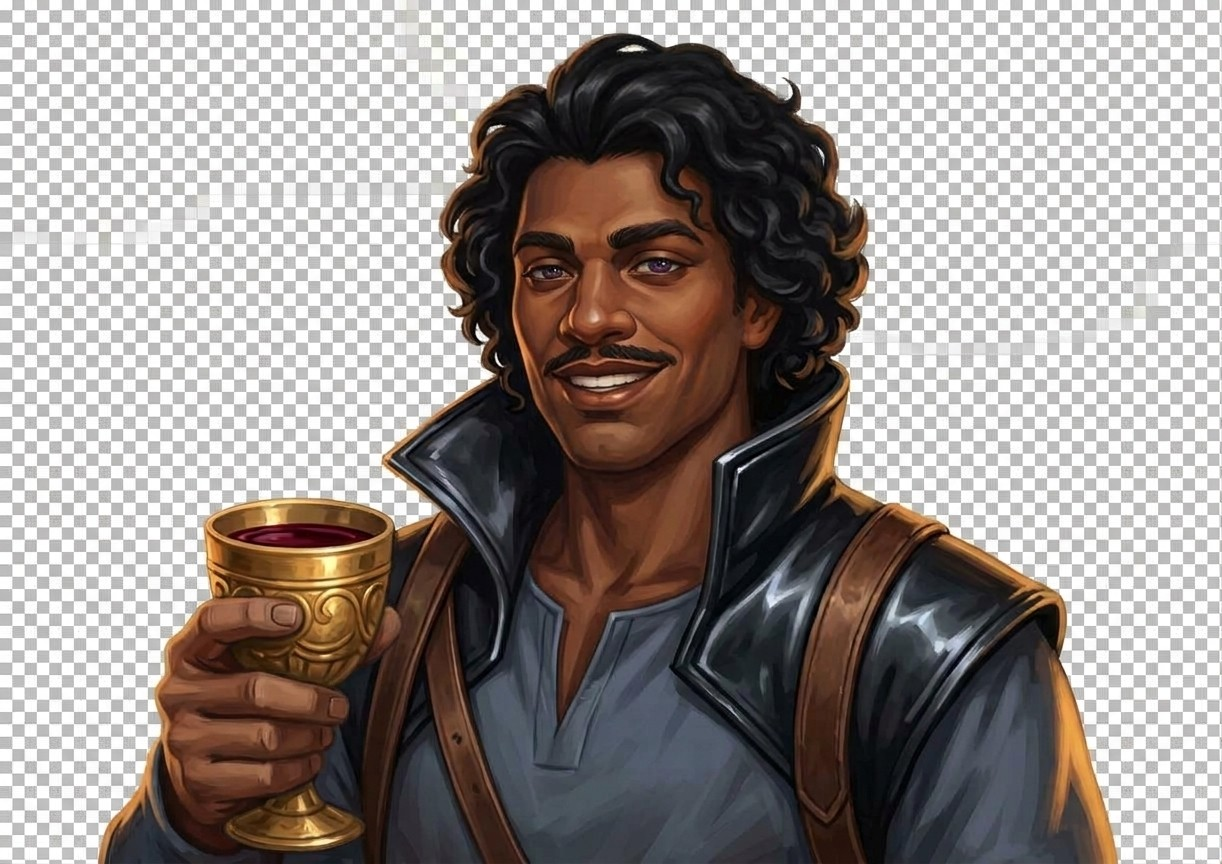
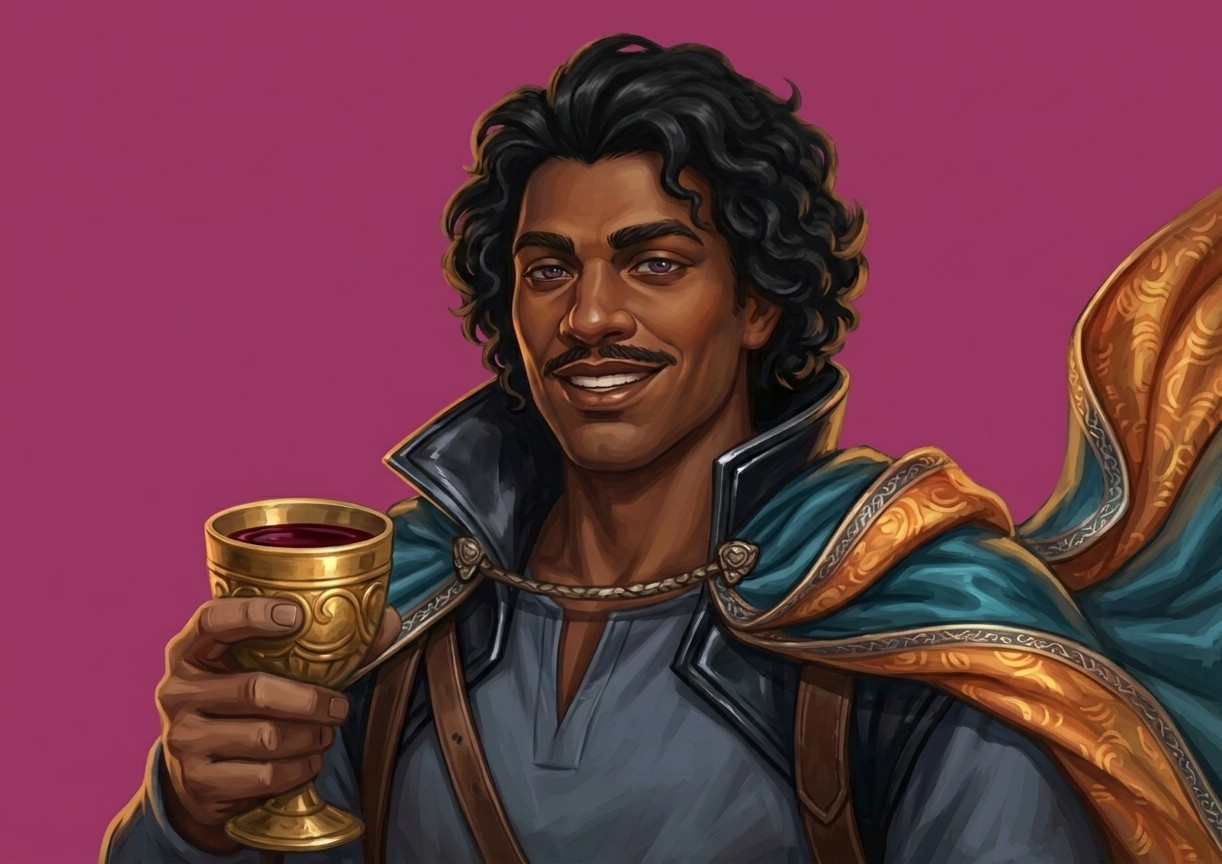
Jaguar's new bust and two ability paintings; ability screens 1.85 s
Jaguar's new bust (the old original kept as art/bust-jaguar-v1.jpg, his cloak faded where
it runs off the painting, his round frames reframed) and paintings for Smooth Talk and The
Cloak. The art script's trails take a list, and a new fade option softens edges a painting
crops itself.

Every moment is up 1.85 s instead of 2.6 s (server and browser), with the animations and
room lights to match. "Wild Magic Hot Tub" without "The"; the "Everyone else dusted" line
under the controls is gone.

diff --git a/client/src/styles.css b/client/src/styles.css
@@ -737,14 +737,14 @@ footer {
     border: 2px solid var(--gold);
     border-radius: 10px;
     box-shadow: 0 8px 24px rgba(0, 0, 0, 0.6), 0 0 22px rgba(255, 138, 101, 0.35);
-    animation: banner-in 2.6s ease-out forwards;
+    animation: banner-in 1.85s ease-out forwards;
 }
 .ability-banner .who { font-size: 0.9rem; color: var(--parchment-dim); }
 .ability-banner .what { font-size: clamp(1.3rem, 6vw, 1.8rem); font-weight: 700; color: #ffab91; }
 .ability-banner .minus { font-size: clamp(1.4rem, 6.5vw, 2rem); font-weight: 700; color: #e57373; animation: minus-drop 2.6s ease-out forwards; }
 .constellation-blur .ability-banner { background: linear-gradient(#141a3a, #070a1f); box-shadow: 0 8px 24px rgba(0, 0, 0, 0.6), 0 0 26px rgba(130, 170, 255, 0.45); }
 .constellation-blur .ability-banner .what { color: #b3c7ff; }
-.the-ace-of-spades .ability-banner { animation-duration: 2.4s; }
+.the-ace-of-spades .ability-banner { animation-duration: 1.75s; }
 @keyframes banner-in {
     0% { opacity: 0; transform: translate(-50%, -50%) scale(0.7); }
     10% { opacity: 1; transform: translate(-50%, -50%) scale(1.06); }
@@ -779,7 +779,7 @@ footer {
     display: flex;
     align-items: center;
     gap: 10px;
-    animation: bullet-in 2.4s ease-out forwards;
+    animation: bullet-in 1.75s ease-out forwards;
 }
 /* A small, sharp hole punched in the felt, splintered round the edge, smoke rising off it. */
 .bullet-24 .hole {
@@ -1536,7 +1536,7 @@ button.keepsake.used { opacity: 0.55; }
 .ability-marks .left { color: #ffab91; text-shadow: 0 0 6px rgba(255, 138, 101, 0.9); }
 .ability-marks .used { color: #5d4037; text-shadow: none; }
 /* Just spent: once the move's banner has gone (the plate hides under it), the marks flare. */
-.ability-marks.spent-now { border-radius: 6px; animation: marks-spent 2s ease-out 2.4s 1 both; }
+.ability-marks.spent-now { border-radius: 6px; animation: marks-spent 2s ease-out 1.75s 1 both; }
 @keyframes marks-spent {
     0% { transform: scale(1); box-shadow: none; }
     15%, 45% { transform: scale(1.5); box-shadow: 0 0 18px 6px rgba(255, 112, 67, 0.9); background: rgba(255, 112, 67, 0.35); }
@@ -1795,7 +1795,7 @@ button.keepsake.used { opacity: 0.55; }
     white-space: normal;
     text-align: center;
     box-shadow: 0 10px 40px rgba(0, 0, 0, 0.75), 0 0 46px var(--flare);
-    animation: takeover-in 2.4s cubic-bezier(0.2, 0.8, 0.25, 1) forwards;
+    animation: takeover-in 1.75s cubic-bezier(0.2, 0.8, 0.25, 1) forwards;
 }
 .takeover .ability-banner .who { font-size: 0.85rem; letter-spacing: 0.12em; text-transform: uppercase; color: var(--parchment); }
 .takeover .ability-banner .what { font-size: clamp(2rem, 10vw, 3.2rem); line-height: 1.05; text-shadow: 0 0 22px var(--flare), 0 2px 6px #000; }
@@ -1866,7 +1866,7 @@ button.keepsake.used { opacity: 0.55; }
     background: repeating-conic-gradient(from 0deg, var(--flare) 0deg 5deg, rgba(0, 0, 0, 0) 5deg 20deg);
     -webkit-mask-image: radial-gradient(circle, #000 0%, rgba(0, 0, 0, 0.5) 18%, rgba(0, 0, 0, 0) 40%);
     mask-image: radial-gradient(circle, #000 0%, rgba(0, 0, 0, 0.5) 18%, rgba(0, 0, 0, 0) 40%);
-    mix-blend-mode: screen; animation: rays-turn 2.6s linear both;
+    mix-blend-mode: screen; animation: rays-turn 1.85s linear both;
 }
 @keyframes rays-turn { 0% { opacity: 0; transform: rotate(0deg) scale(0.6); } 15% { opacity: 0.75; transform: rotate(4deg) scale(1); } 85% { opacity: 0.6; } 100% { opacity: 0; transform: rotate(24deg) scale(1.05); } }
 @media (max-height: 500px) { .ability-stage .rays { left: 24vw; top: 50%; } }
@@ -2019,7 +2019,7 @@ button.keepsake.used { opacity: 0.55; }
     display: flex; align-items: center; justify-content: center; font-size: 3rem;
     border-radius: 50%;
     background: radial-gradient(circle, rgba(255, 248, 225, 0.9), rgba(255, 213, 79, 0.35) 55%, transparent 72%);
-    animation: keepsake-burst 2.4s ease-out forwards;
+    animation: keepsake-burst 1.75s ease-out forwards;
 }
 @keyframes keepsake-burst {
     0% { opacity: 0; transform: scale(0.2) rotate(-20deg); }
@@ -2040,7 +2040,7 @@ button.keepsake.used { opacity: 0.55; }
         repeating-linear-gradient(60deg, rgba(179, 229, 252, 0.16) 0 2px, transparent 2px 22px),
         repeating-linear-gradient(-60deg, rgba(179, 229, 252, 0.16) 0 2px, transparent 2px 22px);
     box-shadow: 0 0 40px rgba(79, 195, 247, 0.7), inset 0 0 50px rgba(129, 212, 250, 0.55);
-    animation: forcefield 2.4s ease-out forwards;
+    animation: forcefield 1.75s ease-out forwards;
 }
 @keyframes forcefield {
     0% { opacity: 0; transform: translate(-50%, -18%) scale(0.3); }
@@ -2437,7 +2437,7 @@ button.keepsake.used { opacity: 0.55; }
     height: min(48vh, 440px); max-width: 86vw; object-fit: contain;
     transform: translate(-50%, -78%);
     filter: drop-shadow(0 10px 24px rgba(0, 0, 0, 0.7)) drop-shadow(0 0 22px var(--flare, rgba(255, 138, 101, 0.5)));
-    animation: ability-art 2.6s ease-out both;
+    animation: ability-art 1.85s ease-out both;
 }
 @keyframes ability-art {
     0% { opacity: 0; transform: translate(-50%, -58%) scale(0.9); }
@@ -2472,13 +2472,13 @@ button.keepsake.used { opacity: 0.55; }
     background:
         radial-gradient(ellipse 75% 55% at 50% 40%, var(--flare) 0%, transparent 62%),
         radial-gradient(ellipse 90% 80% at 50% 40%, #1d0f07 0%, #070302 100%);
-    animation: stage-in 2.6s ease-out both;
+    animation: stage-in 1.85s ease-out both;
 }
 @keyframes stage-in { 0% { opacity: 0; } 7% { opacity: 1; } 88% { opacity: 1; } 100% { opacity: 0; } }
 .ability-stage .mote {
     position: absolute; bottom: -12px; width: 7px; height: 7px; border-radius: 50%;
     background: radial-gradient(circle, #fff 0%, var(--flare) 55%, transparent 72%);
-    animation: mote-rise 2.6s ease-in infinite;
+    animation: mote-rise 1.6s ease-in infinite;
 }
 @keyframes mote-rise {
     0% { opacity: 0; transform: translate(0, 0) scale(0.6); }

diff --git a/client/src/Hud.tsx b/client/src/Hud.tsx
@@ -205,7 +205,7 @@ function scoreToBeat(state: GameState, rollerId: string): { label: string; targe
     const finished = state.roundPlayers.filter(id => id !== rollerId && state.players[id] && state.players[id].score !== null);
     if (finished.length === 0) return null; // first to roll: nothing to beat yet
     const scores = finishedScores(state, rollerId);
-    if (scores.length === 0) return { label: 'Everyone else dusted: just find a 2 and a 4', target: null };
+    if (scores.length === 0) return null; // everyone else dusted: nothing to beat (the user took the line out, 27 Oct)
     if (cursed(state)) return { label: 'Score to stay under', target: Math.max(...scores) };
     return { label: 'Score to beat', target: Math.min(...scores) };
 }
@@ -789,7 +789,10 @@ const ABILITY_ART: Record<string, string> = {
     'Flourish': 'ability-flourish.webp',
     'Astral Flood': 'ability-astral-flood.webp',
     'Reach Around': 'ability-reach-around.webp',
-    'Written in the Stars': 'ability-written-in-the-stars.webp'
+    'Written in the Stars': 'ability-written-in-the-stars.webp',
+    // 27 Oct: Jaguar's.
+    'Smooth Talk': 'ability-smooth-talk.webp',
+    'The Cloak': 'ability-the-cloak.webp'
 };
 Object.values(ABILITY_ART).forEach(file => { new Image().src = `${import.meta.env.BASE_URL}art/${file}`; });
 
@@ -819,7 +822,7 @@ function AbilityMomentView({ snap }: { snap: Snapshot }) {
                 <div className="ability-stage" aria-hidden="true">
                     {/* Light rays turning slowly behind the painting. */}
                     <span className="rays" />
-                    {Array.from({ length: 14 }, (_, i) => <span key={i} className="mote" style={{ left: `${(i * 7.3 + (i % 4) * 3) % 100}%`, animationDelay: `${(i * 0.17) % 1.2}s` }} />)}
+                    {Array.from({ length: 14 }, (_, i) => <span key={i} className="mote" style={{ left: `${(i * 7.3 + (i % 4) * 3) % 100}%`, animationDelay: `${(i * 0.11) % 0.8}s` }} />)}
                 </div>
             )}
             {surge && (
@@ -956,7 +959,7 @@ const SPOTS: Record<Spot, { name: string; line: string; offer: string }> = {
     thom: { name: "Thom's Thonics", line: '"What ya havin\'?"', offer: 'Buy Thonics with your purse' },
     shrine: { name: 'Shrine to the Lady', line: 'Candles for the Lady, who keeps sailors safe.', offer: 'A blessing from the Lady' },
     diceDen: { name: 'The Dice Den', line: '"Fancy a quick throw, friend?"', offer: 'Bet gold on two dice' },
-    hotTub: { name: 'The Wild Magic Hot Tub', line: 'Bubbling, glowing, faintly humming.', offer: 'A wild surge on one of your dice' }
+    hotTub: { name: 'Wild Magic Hot Tub', line: 'Bubbling, glowing, faintly humming.', offer: 'A wild surge on one of your dice' }
 };
 
 // Who (or what) is at the spot, in a lit round frame.
@@ -1089,7 +1092,7 @@ const SCENES: Record<SceneSpot, { name: string; tag: string }> = {
     shrine: { name: 'Shrine to the Lady', tag: 'Goddess of sailors' },
     diceDen: { name: 'The Dice Den', tag: 'Two dice each. Highest wins.' },
     stranger: { name: 'The Hooded Stranger', tag: 'Keepsakes, for a price' },
-    hotTub: { name: 'The Wild Magic Hot Tub', tag: 'Soak at your own risk' },
+    hotTub: { name: 'Wild Magic Hot Tub', tag: 'Soak at your own risk' },
     darren: { name: 'Darren Snakehands', tag: 'The barman, and his snakes' }
 };
 

diff --git a/client/src/MomentLight.tsx b/client/src/MomentLight.tsx
@@ -21,19 +21,19 @@ interface Kind {
 // Tuned 23 Oct from frozen-clock before/after shots: the room carries the colour, while the light on
 // the dice stays gentle, so red 1s, green 6s and black pips still read.
 const KINDS: Record<string, Kind> = {
-    devil: { color: '#ff2a14', light: 35, wash: 0.55, ms: 2600 },          // the Duke's Devil (and the mask's)
-    ink: { color: '#9b4dff', light: 50, wash: 0.45, ms: 2600 },           // Vaelin's Inkfire
-    smite: { color: '#ffd36b', light: 0, beam: 30, wash: 0.45, ms: 2400 }, // the Ridgeler's Smite: a beam onto the table
-    flood: { color: '#fff2cc', light: 40, wash: 0.75, sky: 1.6, ms: 2400 }, // Brodor's Astral Flood: a white-gold wash
-    keepsake: { color: '#ffc94d', light: 45, wash: 0.5, ms: 2200 },       // a keepsake working
-    shield: { color: '#6ab7ff', light: 22, wash: 0.5, ms: 2400, shimmer: true }, // the Shield
+    devil: { color: '#ff2a14', light: 35, wash: 0.55, ms: 1800 },          // the Duke's Devil (and the mask's)
+    ink: { color: '#9b4dff', light: 50, wash: 0.45, ms: 1800 },           // Vaelin's Inkfire
+    smite: { color: '#ffd36b', light: 0, beam: 30, wash: 0.45, ms: 1800 }, // the Ridgeler's Smite: a beam onto the table
+    flood: { color: '#fff2cc', light: 40, wash: 0.75, sky: 1.6, ms: 1800 }, // Brodor's Astral Flood: a white-gold wash
+    keepsake: { color: '#ffc94d', light: 45, wash: 0.5, ms: 1800 },       // a keepsake working
+    shield: { color: '#6ab7ff', light: 22, wash: 0.5, ms: 1800, shimmer: true }, // the Shield
     perfect: { color: '#ffd54f', light: 95, wash: 0.5, ms: 2600 },        // a perfect 24: bright enough to bloom
     perfect4: { color: '#c77dff', light: 40, wash: 0.55, ms: 2600 },      // a cursed round's perfect hand (four 1s)
     sixes: { color: '#ff2a14', light: 30, wash: 0.35, ms: 1400 },         // three 6s land (the devil effect)
     // The Salty Swallow as the final tier (25 Oct)
-    stars: { color: '#8fb0ff', light: 30, wash: 0.45, ms: 2400, shimmer: true }, // Rokr's Written in the Stars
-    cloak: { color: '#7b4fd6', light: 15, wash: 0.5, ms: 2600 },          // Jaguar draws his cloak
-    allIn: { color: '#ff5a2a', light: 40, wash: 0.55, ms: 2600 }          // Jaguar's All In
+    stars: { color: '#8fb0ff', light: 30, wash: 0.45, ms: 1800, shimmer: true }, // Rokr's Written in the Stars
+    cloak: { color: '#7b4fd6', light: 15, wash: 0.5, ms: 1800 },          // Jaguar draws his cloak
+    allIn: { color: '#ff5a2a', light: 40, wash: 0.55, ms: 1800 }          // Jaguar's All In
 };
 
 function kindOf(m: AbilityMoment): string | null {

diff --git a/client/src/portraits.ts b/client/src/portraits.ts
@@ -55,7 +55,8 @@ export const PORTRAITS: Record<string, Portrait> = {
     Klarg: seated('klarg.webp', [62, 26], 1.3, 907, 720, [10.2, -11.9]),
     Rokr: seated('rokr.webp', [46, 28], 1.75, 952, 720, [-1.3, -7.7]),
     'The Hangman': seated('hangman.webp', [45, 36], 1.25, 793, 720, [-10.1, -4]),
-    'Jaguar Cantona': seated('jaguar.webp', [47, 36], 1.6, 886, 720, [-8.3, 1.8]),
+    // His second painting (27 Oct): the same pose with his cloak flowing out to the right (faded at the painting's edge); the head as in the first, so no seat.
+    'Jaguar Cantona': seated('jaguar.webp', [45.7, 35.5], 2, 969, 720, [-3, 4]),
     // The Yawning Portal's five (painted 20 Oct, in the game since 21 Oct).
     'Sylvester Stonefist': seated('sylvester.webp', [48, 40], 1.2, 722, 720, [-1.5, 1.2]),
     // His black flame: dark tongues rising from between his hands, with a violet glow in it.
@@ -119,7 +120,7 @@ export function avatarStyle(p: Portrait) {
 export interface PortraitEdit { zoom: number; nudge: [number, number] }
 const SPOT_NAMES: Record<keyof typeof SPOT_PORTRAITS, string> = {
     thom: 'Thom', shrine: "The Lady's Shrine", diceDen: 'The Dice Den gambler', stranger: 'The Hooded Stranger',
-    pickpocket: 'The thief', hotTub: 'The Wild Magic Hot Tub', darren: 'Darren Snakehands'
+    pickpocket: 'The thief', hotTub: 'Wild Magic Hot Tub', darren: 'Darren Snakehands'
 };
 const REGISTRY: Record<string, Portrait> = {
     ...Object.fromEntries(Object.keys(PORTRAITS).filter(k => PORTRAITS[k].center && PORTRAITS[k].bust).map(k => [k, PORTRAITS[k]])),

diff --git a/server.js b/server.js
@@ -1109,7 +1109,7 @@ function emitMoment(roomCode, room, event, data) {
 // until the last has gone (the user's call, 23 Oct: an ability plays in full, banner and effect,
 // before the dice are thrown). The server keeps the same clock, so a throw (and the bot's next
 // step) waits for it too: momentsLeft.
-const MOMENT_GAP_MS = 1700, MOMENT_SHOW_MS = 2600, RESULT_GAP_MS = 1200, RESULT_SHOW_MS = 2600;
+const MOMENT_GAP_MS = 1700, MOMENT_SHOW_MS = 1850, RESULT_GAP_MS = 1200, RESULT_SHOW_MS = 2600;
 const INTRO_SHOW_MS = 4500; // an opponent's entrance (the client's INTRO_MS)
 function sendMoment(roomCode, event, data) {
     let room = rooms[roomCode];

diff --git a/client/src/game.ts b/client/src/game.ts
@@ -264,7 +264,7 @@ function runNext() {
 // Dice are never thrown under one (the user's call, 23 Oct): a roll waits until the last moment
 // has gone (momentGoneAt; the server holds its throws to the same clock, momentsLeft).
 const MOMENT_GAP_MS = 1700;
-export const MOMENT_SHOW_MS = 2600; // an ability's banner (useMoment in Hud), a move's toast (3.6 s until 26 Oct)
+export const MOMENT_SHOW_MS = 1850; // an ability's banner (useMoment in Hud), a move's toast (3.6 s until 26 Oct, 2.6 s until 27 Oct)
 const RESULT_GAP_MS = 1200, RESULT_SHOW_MS = 2600; // the round's result
 let momentFreeAt = 0;
 let momentGoneAt = 0;

diff --git a/CLAUDE.md b/CLAUDE.md
@@ -192,7 +192,7 @@ one too, or saves only last until the server restarts, which on the free tier is
   Check at ~360x640 and ~384x800 after any HUD or camera change.
 - **The phone footer decides how big the tavern and the opponent are** (the table sits right
   above it). Upright phones (`orientation: portrait`, width up to 600) keep it short: the score to
-  beat and the turn score share a line, the purse/shelf sit beside your chip when they fit, and
+  beat and the turn score share a line (when everyone else dusted there is nothing to beat and the line stays empty, the user's call 27 Oct), the purse/shelf sit beside your chip when they fit, and
   at tables with reactions the emoji row takes the hidden Roll button's place (same height, so
   nothing moves between turns). In a Tavern Crawl the bust may rise to 10 px from the top (no
   turn banner there). At 412x780 the far edge is at ~240 px (the old, rail-covering layout ~250).
@@ -350,7 +350,7 @@ https://claude.ai/code/artifact/62ce683b-44ba-43a1-b71b-9dbe3b33d094
   the screen with who, what and the move's text; since 26 Oct, the user's call, it rises like the devil's
   three 6s: a sheet of light in the move's colours sweeps up, plumes lick up from the bottom
   (`.ability-rise`, not for keepsakes), and the banner and painting fly up into place, then leave
-  upwards; as it lands a shockwave ring, glowing edges drawn out from the middle, a shine and the name snapping into focus; every moment is up 2.6 s, `MOMENT_SHOW_MS` on both sides, 3.6 s until 26 Oct; Thonics keep the small plaque), a badge under the Roll button ("Cursed round: ..."), and in a cursed
+  upwards; as it lands a shockwave ring, glowing edges drawn out from the middle, a shine and the name snapping into focus; every moment is up 1.85 s, `MOMENT_SHOW_MS` on both sides (3.6 s until 26 Oct, 2.6 s until 27 Oct); Thonics keep the small plaque), a badge under the Roll button ("Cursed round: ..."), and in a cursed
   round a violet glow round the screen edges (`.curse-veil`). Every ability has its own colours
   (`AbilityAura` + banner classes by ability name): Mind Whip a green-violet mist and a
   green-violet glow on the die he chose (`materials.mind`; Rokr's blur keeps the blue "?" and stars), the Devil
@@ -383,13 +383,13 @@ https://claude.ai/code/artifact/62ce683b-44ba-43a1-b71b-9dbe3b33d094
   stage in its colours over the whole screen (`.ability-stage`, solid underneath: the tavern and the
   bust behind it overlapped the painting, the user's call), motes of light rising, the painting
   pushing slowly in, the banner below it (on phones on their side the painting left, the banner
-  right), 2.6 s like every moment (3.6 s until 26 Oct; turning light rays behind the painting); not when a Clear-Eye cancels it.
+  right), 1.85 s like every moment (turning light rays behind the painting); not when a Clear-Eye cancels it.
   So far Mind Whip, You are Cursed, Sympathy for the Devil, Disguises, Back of the Head, Inkfire
-  Brand, Flourish, Astral Flood, Reach Around and Written in the Stars (`ABILITY_ART` in Hud,
+  Brand, Flourish, Astral Flood, Reach Around, Written in the Stars, and since 27 Oct Jaguar's Smooth Talk and The Cloak (`ABILITY_ART` in Hud,
   `art/ability-<id>.jpg`, cut out with `holes` seeds for enclosed pockets; `cutOutFlat` also has
-  `minPiece` (keep a flying die), `trails` (see-through streaks of one colour), `soften` (a fading
+  `minPiece` (keep a flying die), `trails` (see-through streaks; a list for several colours), `fade` (fades out where the painting itself crops the character), `soften` (a fading
   edge) and `smokeMinBlue`). Brodor's bust is a new painting since 26 Oct (the first is
-  `art/bust-brodor-v1.webp`). Martha's Disguises
+  `art/bust-brodor-v1.webp`); so is Jaguar's since 27 Oct, his cloak faded where it runs off the painting (the first is `art/bust-jaguar-v1.jpg`). Martha's Disguises
   painting shows ~1.7 s, then the trick she copies with its own painting. Check new ones with
   `node test/ability-shots.mjs <dir> only=<key>` (plays the ability for real headless, holds the
   moment, shoots it at phone sizes and checks it stays above the rail; works with the pane hidden;
@@ -522,7 +522,7 @@ https://claude.ai/code/artifact/62ce683b-44ba-43a1-b71b-9dbe3b33d094
   to whatever the next fight starts on (so it stacks with the Stranger's price). The choice screen
   is headed "Make your choice"; "Or challenge Klarg right away" (the next opponent's name)
   skips both spots (it's all at the one table, so the wording is "Challenge", never "walk").
-  The **Wild Magic Hot Tub** (a spot at the Ghoul and Gourd only, the user's call 21 Oct; 5 gold a soak, `hotTubPrice`; the Shrine's candle 10, `shrinePrice`; both rising with each visit; neither is offered when the purse can't cover it): climb in and a wild surge
+  The **Wild Magic Hot Tub** (shown without "The" since 27 Oct; a spot at the Ghoul and Gourd only, the user's call 21 Oct; 5 gold a soak, `hotTubPrice`; the Shrine's candle 10, `shrinePrice`; both rising with each visit; neither is offered when the purse can't cover it): climb in and a wild surge
   is picked by weight (`hotTubSurges`): one of your dice (`hotTubDie`, aqua on the table,
   `materials.tub`) next fight never rolls a 1 / keeps the better of two / only rolls 4-6 / always
   lands on 6 / never rolls a 6, or Pruney Fingers, the next fight a heart short
@@ -568,8 +568,8 @@ https://claude.ai/code/artifact/62ce683b-44ba-43a1-b71b-9dbe3b33d094
 1. **The new look on other phones** (the default since 23 Oct): if Auto quality drops a good
    phone to Low, tune its threshold (`noteFrame`).
 2. **The user's decisions waiting:** names for the ship's new abilities (Written in the Stars,
-   Dead Eye, Smooth Talk, the Cloak, All In are working names); paintings for the other ten
-   abilities (`ABILITY_ART` in Hud.tsx, `art-import` subagent, `test/ability-shots.mjs` to check);
+   Dead Eye, Smooth Talk, the Cloak, All In are working names); paintings for the other eight
+   abilities (Divine Smite, Dead Eye, the Ace of Spades, All In, and the unused old ones aside) (`ABILITY_ART` in Hud.tsx, `art-import` subagent, `test/ability-shots.mjs` to check);
    the Dice Den rework or a new spot instead (ideas: the Cult of Kram, the Flying Snakes who bring
    messages to the Ghoul and Gourd); music and ambience from Udio (the plan and prompts were given
    26 Oct; nothing is in the game yet).

diff --git a/docs/art-direction.md b/docs/art-direction.md
@@ -132,9 +132,10 @@ Thom's prompt also adds *no text, no lettering*: the shop screen prints "Thom's 
 | Brass slot plates | Done | `art/slot-plates.jpg` → `plate-2/4/blank.webp` |
 | Backdrop | Done | `art/tavern-backdrop.jpg` → `tavern.webp` |
 | Backdrop: the Yawning Portal | Done (26 Oct) | `art/yawning-portal-backdrop.jpg` → `yawning-portal.webp` (1584×672), the hall with its well; the Portal's five fights and its scenes |
-| Ability paintings (Mind Whip, You are Cursed, Sympathy for the Devil, Disguises; since 26 Oct evening also Back of the Head, Inkfire Brand, Flourish, Astral Flood, Reach Around, Written in the Stars) | Done (26 Oct) | `art/ability-<id>.jpg` → `ability-<id>.webp` (900 tall, cut out); `ABILITY_ART` in `client/src/Hud.tsx`. Back of the Head keeps its flying die (`minPiece`) and a little of its streaks (`trails`); Inkfire's black flame goes see-through at its tips (`smokeBox`, `smokeMinBlue`); Flourish's cream swirls are see-through (`trails`) with `holes` inside the loops; Astral Flood's aura fades at its edge (`soften`) with `holes` between the ribbons. Still wanted: Divine Smite, Dead Eye, the Ace of Spades, Smooth Talk, The Cloak, All In (subjects in the prompt pack's ability table) |
+| Ability paintings (Mind Whip, You are Cursed, Sympathy for the Devil, Disguises; since 26 Oct evening also Back of the Head, Inkfire Brand, Flourish, Astral Flood, Reach Around, Written in the Stars; since 27 Oct Jaguar's Smooth Talk and The Cloak) | Done (26-27 Oct) | `art/ability-<id>.jpg` → `ability-<id>.webp` (900 tall, cut out); `ABILITY_ART` in `client/src/Hud.tsx`. Back of the Head keeps its flying die (`minPiece`) and a little of its streaks (`trails`); Inkfire's black flame goes see-through at its tips (`smokeBox`, `smokeMinBlue`); Flourish's cream swirls are see-through (`trails`) with `holes` inside the loops; Astral Flood's aura fades at its edge (`soften`) with `holes` between the ribbons. Smooth Talk (27 Oct) keeps its gold sparkle swirls and the potion's red glow see-through (two `trails`, `tolerance: 30`, tiny sparkles kept by a low `minPiece`); The Cloak keeps its smoky wisps and the cloak's thin edge see-through (`trails`), `holes` between the folds and the arm, and fades out where the painting crops the cloak (`fade`, new 27 Oct: { left, right, top, bottom } px). Still wanted: Divine Smite, Dead Eye, the Ace of Spades, All In (subjects in the prompt pack's ability table) |
 | Backdrop: outside the Ghoul and Gourd | Done | `art/ghoul-gourd-outside.jpg` → `ghoul-gourd-outside.webp` (1376×768), Sperm McGrath's fight; `SCENES` in `client/src/Backdrop.tsx` |
 | Opponent busts | Done | Molar, Klarg, Rokr, Hangman, Jaguar: `art/bust-*.jpg` → `*.webp` |
+| Jaguar Cantona, second painting | Done (27 Oct) | `art/bust-jaguar.jpg` (flat magenta, `cutOutFlat` with `holes` in two hair gaps and `fade: { right: 140 }`: his teal-and-gold cloak runs off the painting's right edge, so it fades out instead of ending in a straight line) → `jaguar.webp` (969×720); the first painting (a checkerboard) kept as `art/bust-jaguar-v1.jpg`. Same pose and head size as the first, so no `seat`; round frames at zoom 2 |
 | Sperm McGrath (Ghoul and Gourd bouncer) | Done | `art/bust-mcgrath.jpg` (flat magenta, `cutOutFlat`) → `mcgrath.webp` |
 | Frak (half-elf sorcerer) | Done; smoke cut out 23 Oct | `art/bust-frak.jpg` (flat magenta, `cutOutFlat` with `noSmoke`: the painted cigar smoke is taken out, over the background and over his vest, because the game draws its own moving smoke from the tip; `ONLY=frak npm --prefix client run art` redoes just him) → `frak.webp` |
 | Danhausen | Done | `art/bust-danhausen.jpg` (flat magenta, `cutOutFlat`) → `danhausen.webp`; `seat: 1.6` behind the table (he shows more body) |
